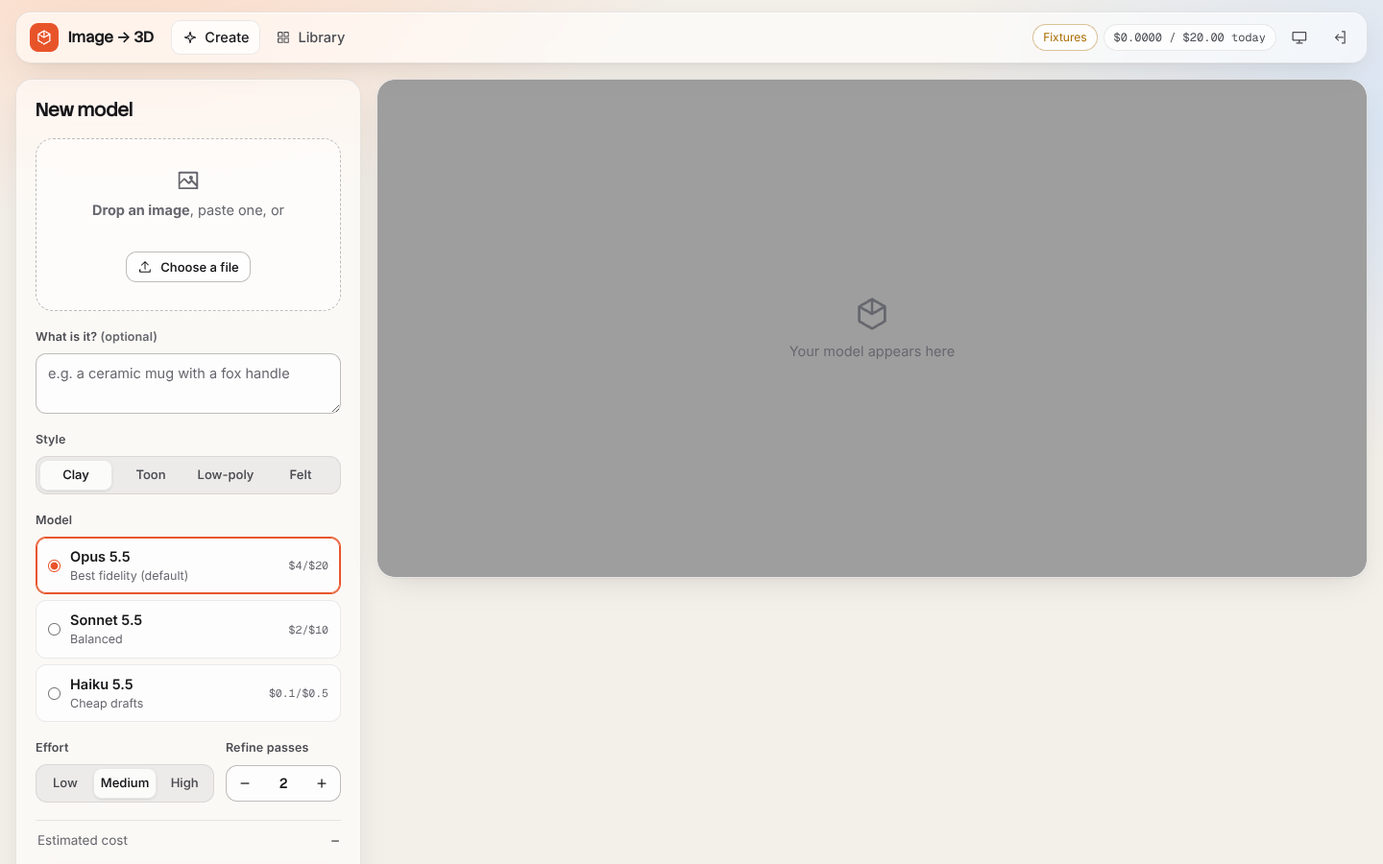
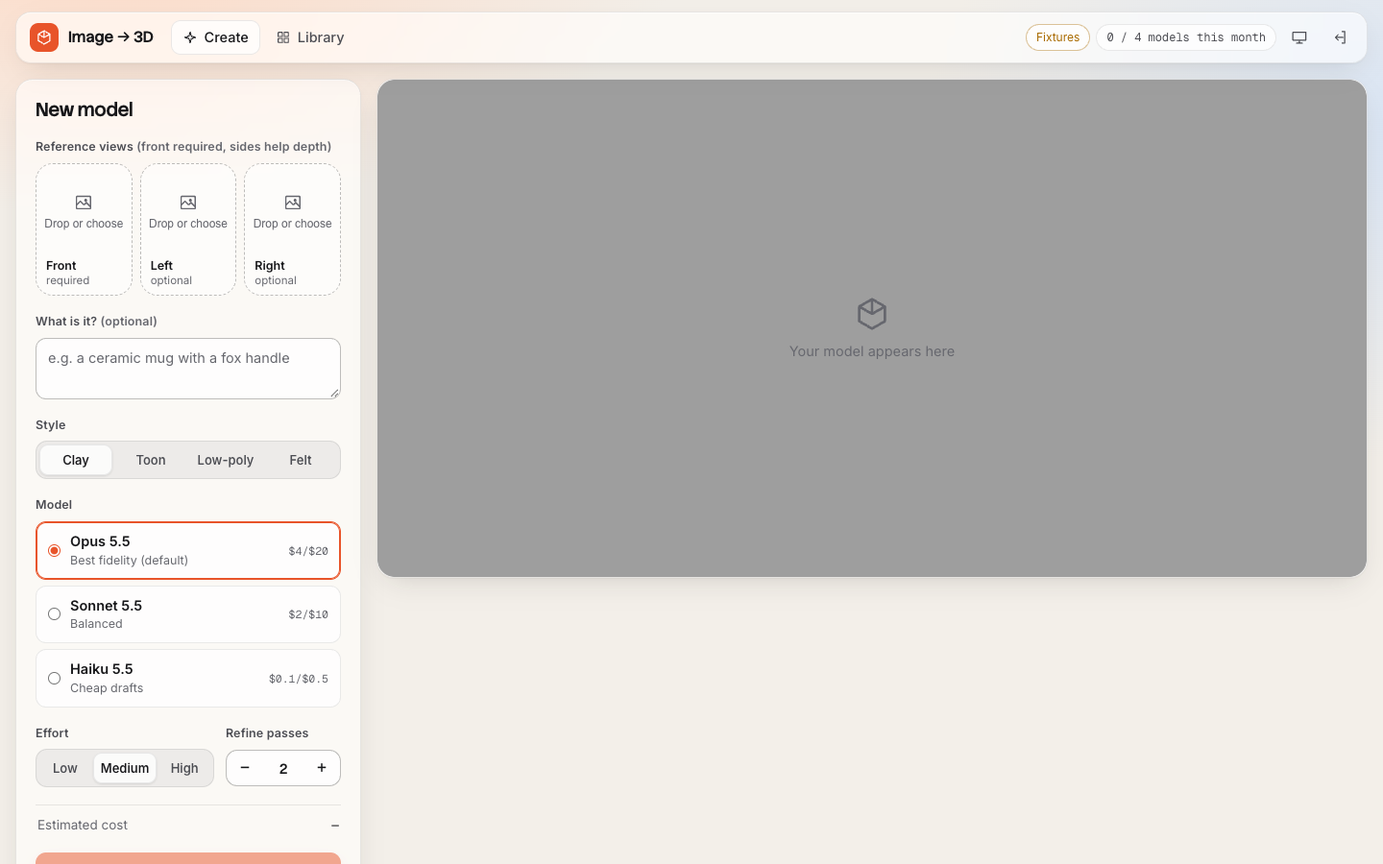
image-to-3d: README (decisions, Agam's setup list, security), e2e for consent / moderation / three views / quota / share, screenshots

diff --git a/apps/image-to-3d/e2e/app.spec.ts b/apps/image-to-3d/e2e/app.spec.ts
@@ -32,9 +32,17 @@ test.afterAll(() => {
   expect(pageErrors, "no uncaught page errors").toEqual([]);
 });
 
-async function generate(opts: { file: string; notes?: string; style: string; passes: number; screenshotMidway?: string }) {
+async function generate(opts: { file: string; left?: string; right?: string; notes?: string; style: string; passes: number; screenshotMidway?: string }) {
   await page.getByTestId("file-input").setInputFiles(IMG(opts.file));
   await expect(page.getByAltText("Front view")).toBeVisible();
+  if (opts.left) {
+    await page.getByTestId("file-input-left").setInputFiles(IMG(opts.left));
+    await expect(page.getByAltText("Left view")).toBeVisible();
+  }
+  if (opts.right) {
+    await page.getByTestId("file-input-right").setInputFiles(IMG(opts.right));
+    await expect(page.getByAltText("Right view")).toBeVisible();
+  }
   if (opts.notes !== undefined) await page.getByLabel("What is it?").fill(opts.notes);
   await page.getByRole("radio", { name: opts.style }).click();
   const passes = page.locator("#passes");
@@ -196,7 +204,7 @@ test("viewer: style switch, rename, tags, share link, GLB", async () => {
   const guest = await page.context().browser()!.newContext({ baseURL: new URL(shareUrl).origin });
   const gp = await guest.newPage();
   await gp.goto(shareUrl);
-  await expect(gp.getByRole("heading", { name: "Toy robot" })).toBeVisible();
+  await expect(gp.getByRole("heading", { name: "Wind-up robot" })).toBeVisible();
   await expect(gp.getByRole("link", { name: "Download GLB" })).toHaveAttribute("href", /^\/api\/file\?p=/);
   await gp.getByRole("button", { name: "Report this model" }).click();
   await gp.getByRole("dialog").getByRole("button", { name: "Send report" }).click();
@@ -218,6 +226,35 @@ test("delete removes the model and its files", async () => {
   await dialog.getByRole("button", { name: "Delete" }).click();
   await page.waitForURL(/\/library$/);
   await expect(page.getByRole("list", { name: "Models" }).locator("li")).toHaveCount(2);
+});
+
[1 lines of base64/hex data omitted]
+
+test("moderation: a blocked request stops before the main model and doesn't use up a model", async () => {
+  await page.goto("/");
+  const pill = page.getByTitle(/Models you've made this month/);
+  await expect(pill).toContainText("3 / 4");
+  await page.getByTestId("file-input").setInputFiles({ name: "tiny.png", mimeType: "image/png", buffer: TINY_PNG });
+  await expect(page.getByAltText("Front view")).toBeVisible();
+  await page.getByLabel("What is it?").fill("moderation-test-block");
+  await page.getByRole("button", { name: /Generate/ }).click();
+  await expect(page.getByRole("alert")).toContainText("doesn't accept");
+  await page.reload();
+  await expect(pill).toContainText("3 / 4");
+});
+
+test("three views count as one model, then the monthly limit stops the next one", async () => {
+  await page.goto("/");
+  await generate({ file: "toadstool", left: "robot", right: "robot", notes: "toadstool", style: "Clay", passes: 0 });
+  await page.screenshot({ path: `${SHOTS}/three-views.png` });
+  await expect(page.getByTitle(/Models you've made this month/)).toContainText("4 / 4");
+
+  await page.reload();
+  await page.getByTestId("file-input").setInputFiles(IMG("robot"));
+  await expect(page.getByAltText("Front view")).toBeVisible();
+  await page.getByRole("button", { name: /Generate/ }).click();
+  await expect(page.getByRole("alert")).toContainText("free models");
+  await page.screenshot({ path: `${SHOTS}/quota-hit.png` });
 });
 
 test("signing out locks the app again", async () => {

diff --git a/apps/image-to-3d/playwright.config.ts b/apps/image-to-3d/playwright.config.ts
@@ -33,6 +33,7 @@ export default defineConfig({
       ANTHROPIC_MOCK: "fixtures",
       MOCK_DELAY_MS: "6",
       INVITE_CODES: "beta-e2e",
+      MONTHLY_MODELS: "4",
       ADMIN_EMAILS: "admin@example.com",
       DATA_DIR: ".data-e2e",
       DAILY_BUDGET_USD: "20",

diff --git a/apps/image-to-3d/README.md b/apps/image-to-3d/README.md
@@ -1,6 +1,6 @@
 # Image → 3D
 
-Upload an image (a photo, sketch or illustration). Claude reads it and writes a **3D illustration spec**: the subject broken into parts, a primitive for each part, proportions, a stylised palette, a pose and a camera. Deterministic code turns that spec into a **three.js model**. Then the app renders the model, shows the render to Claude next to the source image, and asks it to **compare and fix**, for up to three passes, keeping the best version. Finished models go into a **library** with a GLB export, a thumbnail, the source image and the spec.
+Upload one to three images (a photo, sketch or illustration). Claude reads it and writes a **3D illustration spec**: the subject broken into parts, a primitive for each part, proportions, a stylised palette, a pose and a camera. Deterministic code turns that spec into a **three.js model**. Then the app renders the model, shows the render to Claude next to the source image, and asks it to **compare and fix**, for up to three passes, keeping the best version. Finished models go into a **library** with a GLB export, a thumbnail, the source image and the spec.
 
 It's a self-contained app inside the portfolio repo. It shares nothing with the portfolio's `src/`, has its own `package.json`, and deploys to its own Vercel project. It runs on your Anthropic API key, which never leaves the server.
 
@@ -14,67 +14,97 @@ The screenshots come from the e2e suite, which replays recorded Claude responses
 
 ---
 
-## Deploy (Agam's steps)
+## Public launch (Phase 1)
 
-You need Node 20+, the Vercel CLI (`npm i -g vercel`) and an Anthropic API key from console.anthropic.com.
+The app is open to the public as a free beta at **3d.agamagarwal.com**: sign in with Google, an invite code to create an account, strict moderation, private storage and hard spend limits. Everything below runs locally in mock mode with no accounts (`npm run dev:mock`); each external service switches on only when its environment variables exist.
 
-```bash
-cd apps/image-to-3d
-npm ci
+### Decisions (Agam can change any of these)
 
-# 1. Create and link a new Vercel project. Run this from this folder, so the
-#    project root is apps/image-to-3d. Answer "no" to linking an existing
-#    project, and call it image-to-3d.
-vercel link
+| Decision | Chosen default | Where to change it |
+| --- | --- | --- |
+| Pricing | Free: **5 models per user per month** (a 3-view job is 1 model; compare-and-fix passes are free), a **$2 per-user daily compute cap**, plus the global daily dollar cap | `MONTHLY_MODELS`, `DAILY_USER_USD`, `DAILY_BUDGET_USD` |
+| Sign-in | **Google OAuth** (hand-written code flow in `server/auth.ts`: Auth.js needs a Next/Express host, and this is a Vite SPA on plain Vercel functions; Clerk would be a second vendor for the same result) **plus an invite-code gate** for the beta | `GOOGLE_*`, `INVITE_CODES`, `INVITE_REQUIRED`, `ADMIN_EMAILS` |
+| Domain | `3d.agamagarwal.com` (Agam configures the DNS, see below) | `PUBLIC_URL` |
+| Moderation | **Strict.** A Haiku check on every image (and the note) before the big model: blocks sexual content, minors, recognisable real faces, graphic violence, weapons and hate symbols. Blocked images are never stored; only a hash is logged. Three blocks in a day pause that account until 00:00 UTC | `server/prompts.ts` (`MODERATION_SYSTEM_PROMPT`) |
+| Retention | Source photos deleted **24 h** after upload, models **30 days** after saving | `server/library.ts` (`SOURCE_TTL_MS`, `MODEL_TTL_MS`) |
+| One in-flight generation per user; global concurrency | 1 per user, `MAX_CONCURRENT=4` across the deployment, then `503 busy, retry` | `MAX_CONCURRENT` |
+| Model-written code | **Removed from the public build** (`LIMITS.customParts = 0`, not in the prompt or the JSON schema, the sandbox worker is not even in the production bundle). Dev only behind `ALLOW_CUSTOM_PARTS=1` + `VITE_ALLOW_CUSTOM_PARTS=1` | `shared/spec.ts` |
+| Storage backends | Vercel Blob for files, **Upstash Redis** for accounts, sessions and quotas. **Neon/Postgres is not implemented** (Upstash covers every access pattern; `server/kv.ts` is the 6-method interface a Postgres version would implement) | `server/kv.ts` |
+| Sharing | Private by default. An owner can share a read-only link (`/s/<token>`, never the photos); three distinct reports take it down automatically | |
 
-# 2. Storage: in the Vercel dashboard, open the project, go to Storage, then
-#    Create → Blob (public access) → Connect to the project, for all environments.
-#    This adds BLOB_READ_WRITE_TOKEN automatically.
+The Terms and Privacy pages (`src/pages/Legal.tsx`) are a plain-language **draft written from what the code does. Have them reviewed before launch.** The consent version is `TERMS_VERSION` in `server/users.ts`; change it to make everyone agree again.
 
-# 3. Secrets (each command prompts for the value)
-vercel env add ANTHROPIC_API_KEY production
-vercel env add APP_PASSWORD production       # the password you'll type to get in
-vercel env add SESSION_SECRET production     # paste the output of: openssl rand -base64 32
-vercel env add DAILY_BUDGET_USD production   # e.g. 5
+### What Agam has to set up
 
-# 4. Ship it
-vercel deploy --prod
-```
+1. **Google OAuth client** (console.cloud.google.com → APIs & Services → Credentials → Create credentials → OAuth client ID → *Web application*):
+   - Authorised JavaScript origin: `https://3d.agamagarwal.com`
+   - Authorised redirect URI: `https://3d.agamagarwal.com/api/auth?action=callback` (add `http://localhost:5173/api/auth?action=callback` to try it locally)
+   - On the OAuth consent screen: add the scopes `openid`, `email`, `profile`; keep it in *Testing* with your invitees as test users, or publish it (needed once you go beyond 100 users).
+   - Copy the client ID and secret into `GOOGLE_CLIENT_ID` / `GOOGLE_CLIENT_SECRET`.
+2. **Upstash Redis**: Vercel dashboard → the project → Storage → Marketplace → *Upstash Redis* → create and connect for all environments. That adds `KV_REST_API_URL` and `KV_REST_API_TOKEN` (or set `UPSTASH_REDIS_REST_URL` / `UPSTASH_REDIS_REST_TOKEN` yourself). Accounts and quotas live here; production refuses to run without it.
+3. **Vercel Blob** (as before): Storage → Create → Blob → connect (adds `BLOB_READ_WRITE_TOKEN`). The store is public, but the app never reveals a blob URL: files are served through expiring signed `/api/file` links.
+4. **Vercel environment variables** (`vercel env add NAME production`, repeat for `preview` if you use previews):
 
-Open the URL, enter `APP_PASSWORD`, drop in an image.
+   | Variable | Value |
+   | --- | --- |
+   | `ANTHROPIC_API_KEY` | your key |
+   | `SESSION_SECRET` | `openssl rand -base64 32` (rotating it signs everyone's file links out and invalidates in-flight sign-ins) |
+   | `GOOGLE_CLIENT_ID`, `GOOGLE_CLIENT_SECRET` | from step 1 |
+   | `PUBLIC_URL` | `https://3d.agamagarwal.com` |
+   | `ADMIN_EMAILS` | your Google email (admins skip the invite gate and can open `/admin`) |
+   | `INVITE_CODES` | optional shared codes, e.g. `friends-beta`; you can also mint single-use codes at `/admin` |
+   | `DAILY_BUDGET_USD` | the global daily cap, e.g. `10` |
+   | `MONTHLY_MODELS`, `DAILY_USER_USD`, `MAX_CONCURRENT` | optional; defaults 5, 2, 4 |
+   | `CRON_SECRET` | `openssl rand -hex 24`. Vercel Cron sends it as a bearer token; without it the retention job refuses to run |
+   | `ALERT_WEBHOOK_URL` | optional Slack-compatible incoming webhook for spend alerts and takedowns |
+   | `CONTACT_EMAIL` | optional; shown on the Terms and Privacy pages |
 
-**Keep the deploys away from `main`.** `main` auto-deploys the portfolio through Amplify. Deploy this app with the CLI as shown above. If you later connect the Vercel project to the GitHub repo, set *Root Directory* to `apps/image-to-3d` and use an *Ignored Build Step* (or a dedicated production branch) so that portfolio pushes don't trigger image-to-3d builds.
+   Never put these in a file or in the repo. Remove any old `APP_PASSWORD`: it is no longer read.
+5. **Domain DNS**: in the Vercel project → Settings → Domains add `3d.agamagarwal.com`, then at your DNS host create the record Vercel shows (normally `CNAME 3d → cname.vercel-dns.com`). HTTPS is automatic. Vercel's `x-vercel-forwarded-for` header is what the per-IP limiter trusts.
+6. **Anthropic org spend limit**: console.anthropic.com → Settings → Limits → set a monthly spend limit for the workspace/organisation that owns the key (and, ideally, use a dedicated workspace and key for this app). It's the backstop under the app's own daily cap. Also check the org's usage-tier rate limits cover `MAX_CONCURRENT` simultaneous Opus calls.
+7. **Cron**: `vercel.json` schedules `/api/cron` daily at 03:00 UTC (the Hobby-plan maximum). On Pro, change it to hourly (`0 * * * *`) so the 24-hour photo retention is exact. Expired files are already refused at read time, so the cron only physically deletes them.
+8. **Deploy** from this folder with the CLI (`vercel deploy --prod`), as below. Nothing in this branch deploys itself.
+9. Smoke test: sign in, accept the terms, make a model, share it, open the share link signed out, report it, open `/admin`, delete everything.
 
-To use preview deploys (`vercel deploy` without `--prod`), add the same variables for the `preview` environment.
+**Keep the deploys away from `main`.** `main` auto-deploys the portfolio through Amplify. Deploy this app with the CLI. If you later connect the Vercel project to the GitHub repo, set *Root Directory* to `apps/image-to-3d` and use an *Ignored Build Step* (or a dedicated production branch) so that portfolio pushes don't trigger image-to-3d builds.
+
+**Not migrated:** models saved before Phase 1 sit under `i3d/items/` and `i3d/index/` in Blob, outside any user's namespace, so nobody can open them. Download what you want from the Blob dashboard and delete the rest.
+
+**Vercel request limit:** Vercel Functions reject request bodies over 4.5 MB. The browser downsizes every photo to about 1 MB before upload, so three views plus the render fit; the server limit (5 MB per image, 3 images) is for other clients.
 
 ### Environment variables
+
+See `.env.example` for every variable with comments. The ones that matter:
 
 | Variable | Required | What it does |
 | --- | --- | --- |
 | `ANTHROPIC_API_KEY` | yes | Used only by the serverless functions. Never sent to the browser, never logged. |
-| `APP_PASSWORD` | yes | The access gate. If it isn't set, production fails closed: every API route returns 503 and the UI says it's locked. |
-| `SESSION_SECRET` | recommended | Signs the session cookie (HMAC-SHA256). Falls back to a key derived from `APP_PASSWORD`. |
-| `BLOB_READ_WRITE_TOKEN` | yes | Vercel Blob. Connecting a Blob store adds it automatically. |
-| `DAILY_BUDGET_USD` | no (default 5) | A hard daily cap on Claude spend. Once it's reached, generation returns 402 until 00:00 UTC. |
-| `RATE_LIMIT_PER_MINUTE` | no (default 12) | Claude calls per minute per client IP. |
-| `MAX_REFINE_PASSES` | no (default 3) | The highest number of compare-and-fix passes the UI offers (0 to 3). |
-| `PUBLIC_GALLERY` | no (default false) | Makes the library and viewer public and read-only. Editing still needs the password. |
-| `ANTHROPIC_MOCK` | dev only | Set it to `fixtures` to replay recorded responses. Ignored when `VERCEL_ENV=production`. |
+| `SESSION_SECRET` | yes (production) | Signs OAuth state and file links. |
+| `GOOGLE_CLIENT_ID`, `GOOGLE_CLIENT_SECRET` | yes (production) | Google sign-in. |
+| `UPSTASH_REDIS_REST_URL`, `UPSTASH_REDIS_REST_TOKEN` | yes (production) | Accounts, sessions, quotas, locks. `KV_REST_API_*` also accepted. |
+| `BLOB_READ_WRITE_TOKEN` | yes | Vercel Blob (files). |
+| `PUBLIC_URL` | recommended | Public origin for the OAuth redirect. |
+| `ADMIN_EMAILS`, `INVITE_CODES`, `INVITE_REQUIRED` | beta | Admins; shared invite codes; whether new accounts need one (default: yes in production). |
+| `MONTHLY_MODELS` (5), `DAILY_USER_USD` (2), `DAILY_BUDGET_USD` (5), `MAX_CONCURRENT` (4), `RATE_LIMIT_PER_MINUTE` (12), `MAX_ITEMS_PER_USER` (50), `MAX_REFINE_PASSES` (3) | no | Limits. |
+| `CRON_SECRET` | yes (production) | Authorises the retention job. |
+| `ALERT_WEBHOOK_URL`, `ALERT_THRESHOLDS` | no | Spend alerts. |
+| `CONTACT_EMAIL` | no | Contact on the legal pages. |
+| `ANTHROPIC_MOCK`, `MOCK_AUTH`, `MOCK_DELAY_MS`, `DATA_DIR`, `ALLOW_CUSTOM_PARTS` | dev only | Mock mode. Ignored when `VERCEL_ENV=production`. |
 
----
+Production fails closed: with no Google client, no `SESSION_SECRET` or no Upstash, every API route answers 503 and the UI says sign-in isn't set up.
 
 ## Local development
 
 ```bash
 cd apps/image-to-3d
 npm ci
-npm run dev:mock     # no key needed: recorded Claude responses, password "letmein"
+npm run dev:mock     # no key needed: recorded Claude responses; sign in with any email (no password)
 # or, with a real key:
-cp .env.example .env.local   # fill in ANTHROPIC_API_KEY and APP_PASSWORD
+cp .env.example .env.local   # fill in ANTHROPIC_API_KEY and MOCK_AUTH=1 (or the Google variables)
 npm run dev
 ```
 
-`npm run dev` serves the Vercel functions in `api/` from the same Vite server, so you don't need `vercel dev`. Without a Blob token, the library is stored under `.data/`.
+`npm run dev` serves the Vercel functions in `api/` from the same Vite server, so you don't need `vercel dev`. Without a Blob token, files are stored under `.data/`, and without Upstash accounts and quotas live in `.data/kv.json`, so the whole app runs offline. In mock mode, put `moderation-test-block` in the notes to see the moderation block, and set `MONTHLY_MODELS=1` to see the quota message.
 
 | Command | |
 | --- | --- |
@@ -83,7 +113,7 @@ npm run dev
 | `npm run typecheck` | `tsc --noEmit` across the app, the server and the tests |
 | `npm run fixtures` | Regenerates `fixtures/anthropic/*.json` from the spec sources in `scripts/make-fixtures.mjs` |
 
-In this sandbox, run the e2e suite with `CHROMIUM_PATH=/opt/pw-browsers/chromium-1194/chrome-linux/chrome`. Elsewhere, run `npx playwright install chromium` once.
+If Playwright's pinned Chromium isn't installed, point `CHROMIUM_PATH` at any Playwright headless shell you have (for example `~/Library/Caches/ms-playwright/chromium_headless_shell-*/chrome-headless-shell-mac-arm64/chrome-headless-shell`). Otherwise run `npx playwright install chromium` once.
 
 ---
 
@@ -99,24 +129,27 @@ flowchart LR
     UI[React UI<br/>Create · Library · Viewer]
     P[pipeline.ts<br/>create → render → compare & fix ×N → judge → keep best]
     B[builder.ts<br/>spec → three.js scene graph<br/>deterministic, unit-tested]
-    W[[sandbox.worker.ts<br/>model-written snippets<br/>no DOM · no network · strict CSP]]
     S[stage.ts<br/>WebGL render · snapshots · GLTFExporter]
     UI --> P --> B --> S
-    B -. custom parts .-> W
   end
   subgraph Vercel Functions
     G[/api/generate<br/>NDJSON stream/]
     J[/api/judge/]
     L[/api/library · /api/upload/]
-    A[/api/session<br/>password → signed cookie/]
-    GATE{{auth · rate limit · daily budget}}
+    A[/api/session · /api/auth<br/>Google sign-in → session cookie/]
+    F[/api/file · /api/shared · /api/cron · /api/admin/]
+    GATE{{session · consent · quotas · moderation · budget}}
   end
   C[(Claude API<br/>Opus 5.5 / Sonnet 5.5 / Haiku 5.5)]
-  BL[(Vercel Blob<br/>items/uuid/: source · model.glb · thumb · spec.json<br/>index/ · usage/)]
+  BL[(Vercel Blob<br/>users/uid/items/id/: source · model.glb · thumb · spec.json<br/>users/uid/index/ · usage/)]
+  KV[(Upstash Redis<br/>users · sessions · quotas · locks)]
   P -- image + render + spec --> G
   P --> J
   UI --> L
   G & J --> GATE --> C
+  GATE --> KV
+  A --> KV
+  F --> BL
   L --> BL
   GATE -. spend ledger .-> BL
 ```
@@ -125,6 +158,7 @@ flowchart LR
 
 ### How a generation works
 
+0. **Before any of that** (create only): the images are re-encoded with sharp (EXIF stripped, 5 MB / 4096 px / 3 images), checked by a Haiku moderation call each, and a job is opened; the refine passes and the judge only work on a job whose approved images they reuse.
 1. **Spec.** `POST /api/generate {mode:"create"}` streams NDJSON events: status, Claude's summarised thinking, how much JSON has been written, retries, and the result. The server makes one streaming Messages API call with:
    - `output_config.format`: a JSON schema generated from the zod spec schema (`shared/spec.ts`). Structured outputs guarantee schema-shaped JSON. Zod then validates and normalises it anyway: it clamps ranges (structured outputs don't support min/max), repairs duplicate ids, missing parents, parent cycles and unknown materials, and drops degenerate shapes, recording a warning for each repair.
    - `thinking: {type: "adaptive", display: "summarized"}` and a selectable `effort` (default `medium`, which is also Opus 5.5's default).
@@ -132,19 +166,21 @@ flowchart LR
    - `fallbacks: "default"` (the server-side refusal fallback beta) on Opus and Sonnet. A `refusal` stop reason is reported to the user and never retried.
    - One retry when the output can't be used (invalid JSON, a schema violation, or truncation at `max_tokens`). The validation errors are appended *after* the cached prefix, so the retry still reads the cache.
 2. **Build.** `src/three/builder.ts` maps every part to a pivot (position and rotation, plus pose adjustments) that holds a mesh (scale). Children hang off their parent's pivot. `mirrorX` clones a subtree under a `scale.x = -1` group. Primitives: sphere, rounded box, cylinder, cone, capsule, torus, lathe, extrude and tube, with no CSG. Styles change only materials and tessellation: clay is matte standard, toon is a 3-band ramp with inverted-hull outlines, low-poly is faceted non-indexed geometry, and felt is physical sheen with a generated fibre normal map. The builder drops the model onto the ground and frames the spec camera so the whole model is in view.
-3. **Sandbox.** For forms the primitives can't express, Claude may write `customParts[].code`, the body of `(THREE, params) => BufferGeometry`. That code never runs on the page. Each snippet gets a fresh module Worker, served with its own `Content-Security-Policy: default-src 'none'; script-src 'self' 'unsafe-eval'`, so it has no network. The worker also removes `fetch`, XHR, WebSocket, `importScripts`, storage and timers before running anything, and poisons `Function.prototype.constructor` against computed-property escapes. A static deny-list is a further layer of defence. The worker is killed after 2.5 s, and its output is validated (vertex budget, finite coordinates within range) before it reaches the scene.
+3. **No model-written code.** Earlier versions let Claude write geometry code (`customParts[].code`) that ran in a sandbox worker. That is gone from the public build: `LIMITS.customParts` is 0, the field is not in the prompt or the JSON schema, `repairSpec` empties it if a model returns it anyway (with a warning), and the worker is compiled out of the production bundle. The code is kept for local experiments behind `ALLOW_CUSTOM_PARTS=1` (server) and `VITE_ALLOW_CUSTOM_PARTS=1` (dev client).
 4. **Compare and fix.** The client renders the model from the spec camera at a fixed 768², then sends the render, the source image and the current spec to `mode:"refine"`. Claude scores the *current* render from 0 to 10, lists the differences and the edits it made, and returns a complete revised spec. Passes stop early once the score is ≥ 9.2. A cheap Haiku 5.5 judge scores the final version, and the best-scoring version wins.
 5. **Save.** The client exports GLB with GLTFExporter (outline hulls dropped, toon materials baked to PBR) and uploads the GLB, a thumbnail and the source image to `/api/upload`. The server checks each file's magic bytes and size. `/api/library` then validates the spec again and writes it, plus an index entry.
 
-### Storage layout (Vercel Blob)
+### Storage layout (Vercel Blob + Upstash Redis)
 
 ```
-i3d/items/<uuid>/source-<rand>.jpg   model-<rand>.glb   thumb-<rand>.png   spec-<rand>.json
-i3d/index/<ms>-<rand>.json           library index, a new version per write, newest 5 kept
-i3d/usage/<YYYY-MM-DD>/<ms>-<rand>-<microdollars>.u   spend ledger, summed with one list call
+i3d/users/<uid>/items/<uuid>/source-<rand>.jpg  model-<rand>.glb  thumb-<rand>.png  spec-<rand>.json
+i3d/users/<uid>/index/<ms>-<rand>.json     that user's library index, a new version per write, newest 5 kept
+i3d/usage/<YYYY-MM-DD>/<ms>-<rand>-<microdollars>.u   global spend ledger, summed with one list call
 ```
 
-Blob URLs are cached by a CDN, so the app never overwrites a path that readers might cache. Index writes create a new file, and reads list the prefix (a fresh API call) and take the newest. The spend ledger keeps each charge in its file *name*, so summing the day's spend takes one `list` and needs no read-modify-write. Item paths are random UUIDs and uploads get random suffixes. The blobs are public but unguessable, which is what lets the GLB be embedded on another site with the viewer's `<model-viewer>` snippet.
+Redis keys: `user:`, `email:`, `sess:<sha256 of token>`, `invite:`, `q:m:<uid>:<month>` (models), `q:usd:<uid>:<day>`, `lock:user:`, `sem:<n>` (concurrency slots), `job:`, `mod:blocked:<image hash>`, `mod:strikes:`, `share:<token>`, `report:`, `takedown:`, `rl:` (rate-limit windows), `alert:`.
+
+Every user's files sit under their own prefix and no route takes a user id, so one user can't name another's data. **The browser never gets a storage URL.** The library returns `/api/file?p=…&e=<expiry>&s=<HMAC>` links that expire after an hour; `/api/file` checks the signature, the expiry and the retention window, then streams the bytes. Index writes create a new file and reads list the prefix and take the newest, so a CDN can't serve a stale index. The spend ledger keeps each charge in its file *name*, so summing the day's spend takes one `list` and needs no read-modify-write.
 
 ### Why Vite + React rather than Next.js
 
@@ -152,12 +188,14 @@ Almost all of this app runs in the browser (WebGL, a Worker, GLTFExporter), and 
 
 ### Security summary
 
-- The API key is read only in `server/claude.ts`, from `ANTHROPIC_API_KEY`. No client code reads env vars, and nothing is prefixed `VITE_`.
-- The gate is a password exchanged for an HMAC-signed `HttpOnly; Secure; SameSite=Strict` cookie, with a constant-time compare and login rate limiting. It fails closed in production.
-- Spend is controlled three ways: a per-IP rate limit, a hard daily budget recorded after every Claude response (failed attempts included), and a budget check before each call.
-- Every upload, image and spec is validated on the server (type, magic bytes, size, schema). JSON bodies must be `application/json`, which, with SameSite=Strict, blocks cross-site form posts.
-- The page CSP has no `unsafe-eval` and no third-party scripts. Only the sandbox worker gets `unsafe-eval`, and its CSP is `default-src 'none'`.
-- The mock client is disabled in production. No secrets are committed: `.env*` is gitignored, and `.env.example` holds only names.
+- The API key is read only in `server/claude.ts`, from `ANTHROPIC_API_KEY`. No client code reads env vars, and nothing is prefixed `VITE_` except the dev-only custom-parts flag.
+- Accounts: Google sign-in (state-checked, verified email), new accounts behind an invite code, random 256-bit session tokens in an `HttpOnly; Secure; SameSite=Lax` cookie with only the token's hash stored server-side, so signing out or deleting an account takes effect at once. Every data route needs a session and the current Terms consent. Production fails closed without Google, `SESSION_SECRET` or Upstash.
+- Model-written code is not part of the public build (see above): no worker, no `unsafe-eval` anywhere. The page CSP allows only same-origin scripts, images and connections.
+- Spend is controlled in layers: a per-IP limit (Redis, keyed on `x-vercel-forwarded-for`), one generation in flight per user, a global concurrency semaphore, the monthly model count, a per-user daily dollar cap, the global daily dollar cap recorded after every Claude response (failed attempts and moderation calls included), alerts at 50/80/100 %, and the Anthropic org limit under it all. Refines and the judge only run for a job a create opened, so they can't be called on their own.
+- Uploads: every image is decoded and re-encoded with sharp (metadata stripped, 5 MB / 4096 px / pixel-bomb limit / 3 images); GLBs are checked by magic bytes and size; specs are re-validated with zod; JSON bodies must be `application/json`.
+- Moderation is strict and automatic; blocked images are never stored and only their SHA-256 is logged. Logs are JSON lines with images, cookies and tokens scrubbed (`server/log.ts`).
+- Privacy: per-user namespaces, expiring signed file links, sharing off by default, delete one / delete all / delete account, 24 h photo and 30 day model retention (enforced at read time and swept by the cron).
+- The mock client and mock sign-in are disabled in production. No secrets are committed: `.env*` is gitignored, and `.env.example` holds only names.
 
 ---
 
@@ -193,10 +231,10 @@ A typical generation, using the token counts recorded in the fixtures (realistic
 
 ```
 api/            Vercel Functions (thin: wire a handler to deps)
-server/         handlers, Claude client, prompts, auth, rate limit, budget, storage (Blob | fs), fixture mock
+server/         handlers, Claude client, prompts, auth + users + kv (Upstash | file | memory), quotas, moderation, images (sharp), retention, signing, alerts, logs, budget, storage (Blob | fs), fixture mock
 shared/         spec schema (zod → JSON schema), models + pricing (used by client and server)
-src/            React app; src/three = geometry, materials, builder, stage, GLB export, sandbox worker
-tests/          Vitest: builder, spec, sandbox, pricing, server handlers
+src/            React app; src/three = geometry, materials, builder, stage, GLB export (sandbox worker is dev-only)
+tests/          Vitest: builder, spec, sandbox, pricing, accounts, quotas, moderation, images, privacy, observability, server handlers
 e2e/            Playwright: the whole product against the production build
 fixtures/       real-shaped Claude responses + the two source images used in tests
 scripts/        fixture generators, the dev/prod Node adapter, the production-like server
